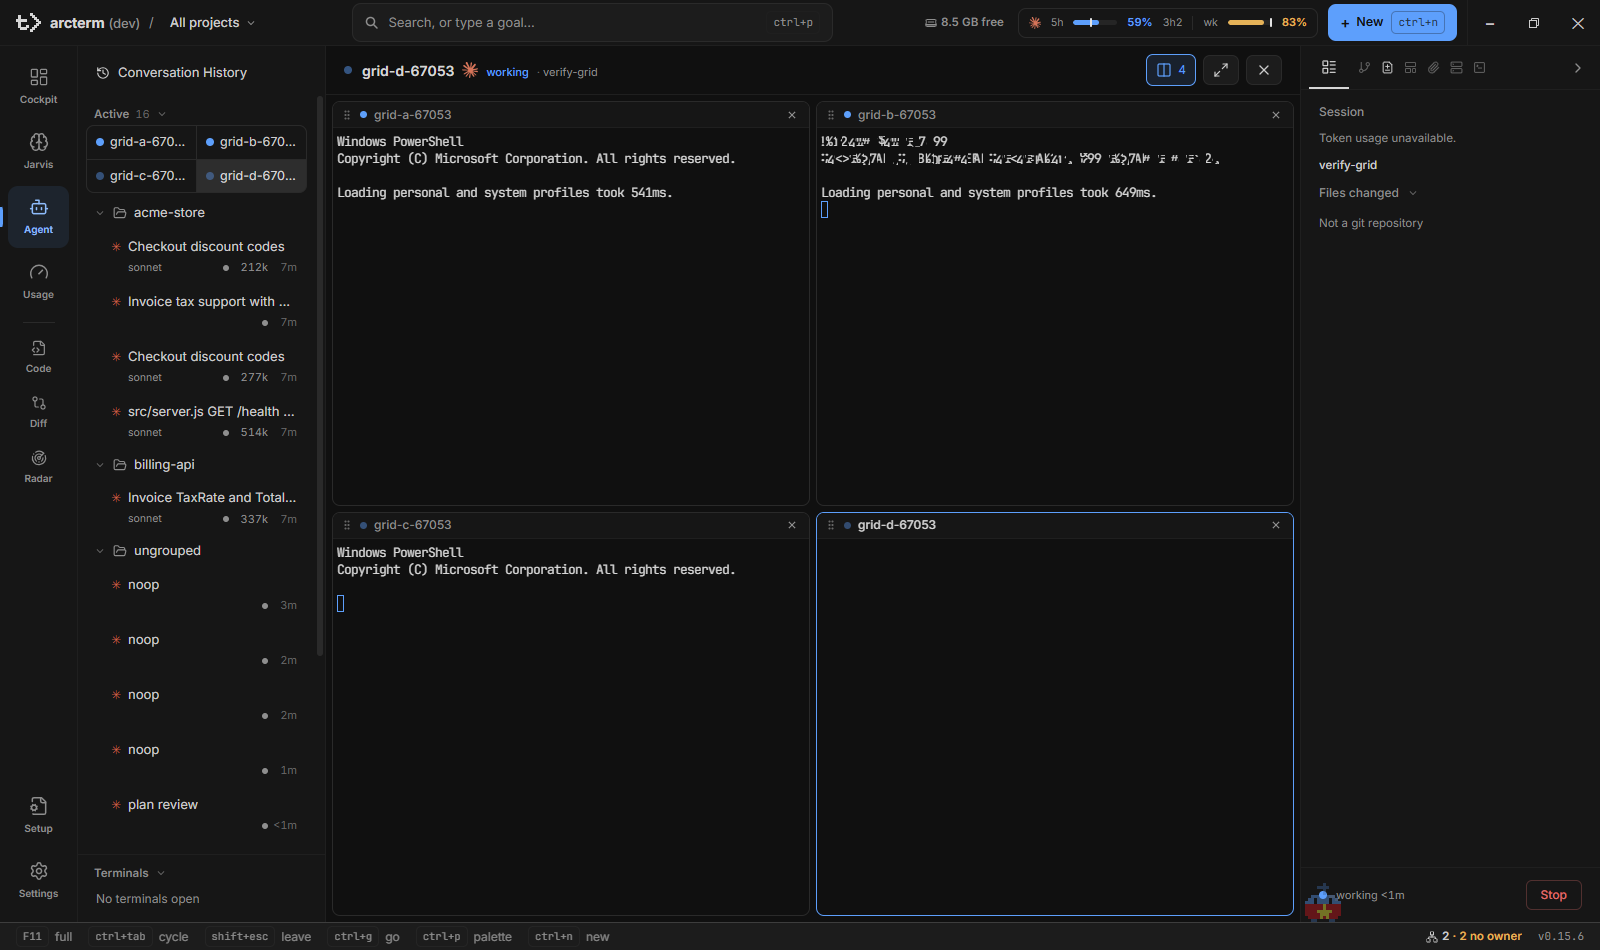
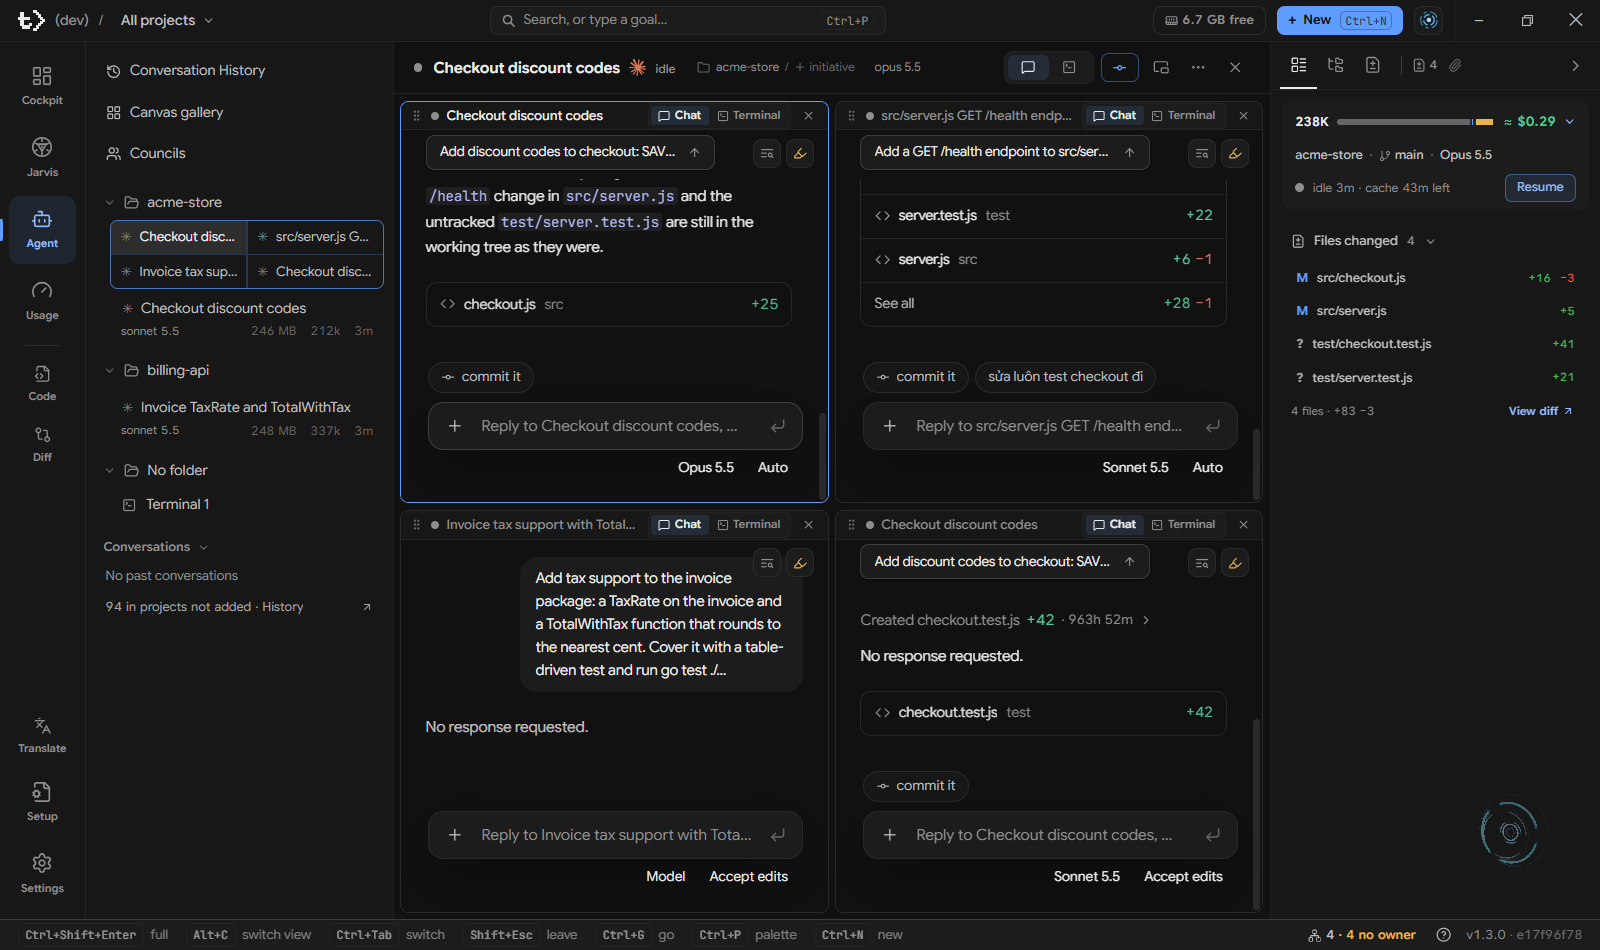
docs(guide): retake the Agent overview and grid shots with real agents
The old ones showed the Active header and the pinned Terminals section. Taken in the
docs demo instance (D:\tmp\arcdemo) with real Claude agents; the captions now say what
the shots show: No folder, Chat in the centre, the split row in the tree.

diff --git a/docs/guide/agent.md b/docs/guide/agent.md
@@ -21,7 +21,7 @@ Cockpit cho bạn cái nhìn tổng quan ([Cockpit](cockpit.md)); Agent là nơi
 └─────────────────┴──────────────────────────────────────────────┴──────────────────┘
 ```
 
-![Surface Agent: sidebar với nhóm project và một run (lead cùng worker), terminal ở giữa, rail chi tiết bên phải](images/agent-overview.png)
+![Surface Agent: sidebar với một thư mục mỗi project và No folder ở cuối, Chat của agent đang chọn ở giữa, rail chi tiết bên phải với các file đã đổi](images/agent-overview.png)
 
 Surface Agent là surface duy nhất arcterm **giữ nguyên trong nền** khi bạn chuyển đi nơi khác, nên terminal đang chạy không bị dựng lại hay vẽ lại; các surface còn lại bị gỡ khỏi màn hình mỗi khi bạn chuyển đi.
 
@@ -223,7 +223,7 @@ Cách các ô xếp: 1 ô chiếm cả vùng, 2 ô cạnh nhau, 3 ô là hai ô 
 
 Khi chuyển giữa các agent và terminal bằng phím (thanh `Ctrl+Tab`, `j`/`k`…) hay chọn trong cây: nếu cái đó đã có ô thì ô đó được focus; nếu chưa thì nó hiện một mình còn split giữ nguyên. Vậy từ một split [A, B] đang ở A, chọn terminal T thì T hiện một mình; bấm nhanh `Ctrl+Tab` về A thì [A, B] trở lại (hoặc bấm hàng split trong sidebar). Mở split mới (kéo thả, **Open in split**) từ một tab đang hiện một mình thì split mới thay split cũ của project.
 
-![Lưới terminal 2x2 với bốn agent, ô đang focus có viền accent, mỗi ô có thanh tiêu đề kèm nút ×](images/agent-grid.png)
+![Lưới 2x2 với bốn agent của một project, ô đang focus có viền accent, mỗi ô có thanh tiêu đề kèm nút Chat | Terminal và nút ×; sidebar gộp bốn ô thành một hàng split](images/agent-grid.png)
 
 ## Panel terminal
 
